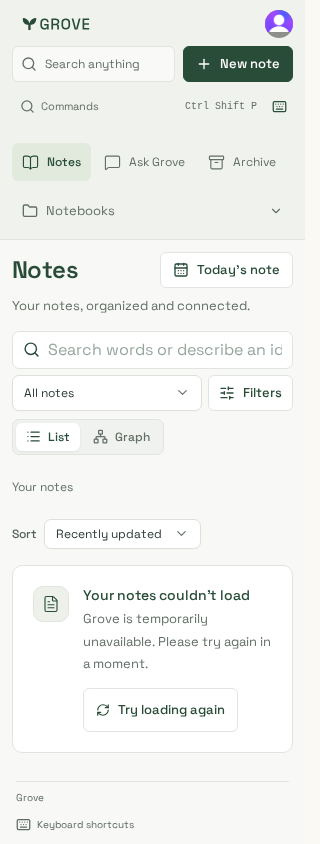
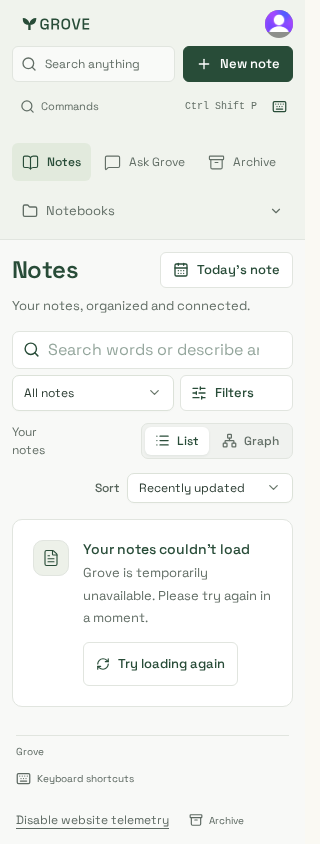
docs: refresh error recovery evidence after workspace integration

diff --git a/documentation/design/screenshots/error-recovery/README.md b/documentation/design/screenshots/error-recovery/README.md
@@ -1,7 +1,9 @@
 # Error-page refinement
 
-Application source: `efc3e9f223254e07e775c4497f49f219d8cbfc31`.
-Production build: `UpJFqxXdLGN3bgNn9nYze`. Captured 22 October 2026 UTC.
+Production capture source: `7144d821d841a888a41c6539527782bafee3ea03`.
+Build: `LTkngUYz6nYcp3UslQsTO`. Captured 22 October 2026 UTC after integrating
+landed stable-library and sharing features. The two isolated global-error captures
+remain from `efc3e9f`; those component/style files are unchanged.
 
 | Surface | Desktop | Mobile |
 | --- | --- | --- |
@@ -18,10 +20,13 @@ host and diagnostics are stubbed in that visual harness.
 
 Verified accessibility at 1440/390/320px, keyboard retry and home navigation,
 200% text at 320px, short-drawer scrolling, and stable pending/failed/retried drawer
-bounds and focus. The full 131-case Chromium suite and 16 focused iPhone/WebKit
-cases pass. Standalone global recovery also passes in Chromium and WebKit.
+bounds and focus. All 149 Chromium cases and 35 supported focused iPhone/WebKit
+cases pass. A Chromium clipboard-permission case cannot start on WebKit because
+that engine does not support the requested grant; its real clipboard check passes
+in Chromium. Standalone global recovery also passes in Chromium and WebKit.
 
 Raw captures and reports are retained in
-`~/.local/state/grove-client-performance/errors-*`. The lazy-check reports were
-created before the UI commit and record its parent HEAD; their build ID matches the
-application source above. Earlier captures remain under `../client-performance/`.
+`~/.local/state/grove-client-performance/errors-combined-*`. Earlier error captures
+use `errors-*`; the first lazy-check reports recorded the pre-commit parent HEAD
+and identify their UI through build `UpJFqxXdLGN3bgNn9nYze`. Earlier workspace
+captures remain under `../client-performance/`.

diff --git a/documentation/delivery.md b/documentation/delivery.md
@@ -8,14 +8,18 @@ and global-error pages use the same visual language and offer a route back to Gr
 Global recovery carries its own styles/fonts and native home links so it remains
 usable outside the root layout. Error details stay out of that fallback's content.
 
-Root/website lint, types and builds, five artifacts, **131 Chromium** and **16
-focused iPhone/WebKit** cases pass. Production deferred retry/bounds/focus and
+After integrating landed stable-library and sharing features, root/website lint,
+types and builds, five artifacts, **149 Chromium** and **35 supported focused
+iPhone/WebKit** cases pass. Release/deployment contracts and workflow lint pass.
+Production deferred retry/bounds/focus and
 sign-in/private-response checks pass at 1440/390/320px. Additional checks cover
 service/404 accessibility, 404 navigation without JavaScript, standalone global
 recovery in both browser engines, keyboard navigation and enlarged text.
-Notes entry is **463,380 gzip bytes (-32.3% original baseline)**, only 200 bytes
-above the previous integrated build. [Reviewed error screenshots](design/screenshots/error-recovery/README.md)
-record the final desktop/mobile presentation and exact source/build.
+Notes entry is **469,016 gzip bytes (-31.5% original baseline)** with all landed
+features included. The error-UI-only increase was 200 bytes before those integrations.
+Preference drafts retain their loaded base across background refreshes and newer
+edits across pending saves. [Reviewed error screenshots](design/screenshots/error-recovery/README.md)
+record the final desktop/mobile presentation, exact source/build and browser coverage.
 
 ## Client caching and loading performance (21 October 2026 UTC)
 

diff --git a/scripts/performance/README.md b/scripts/performance/README.md
@@ -201,3 +201,24 @@ pass. Production drawer bounds/focus/retry and auth checks pass at 1440/390/320p
 extra visual checks cover 200% text, no-JavaScript 404 navigation and standalone
 global recovery in Chromium/WebKit. [Eight screenshots](../../documentation/design/screenshots/error-recovery/README.md)
 document the exact capture setup. Local reports/captures use `errors-*`.
+
+### Landed library and sharing integration
+
+The follow-up integrates stable interactions #63 and public sharing #59 at
+application source `7144d821d841a888a41c6539527782bafee3ea03`, production build
+`LTkngUYz6nYcp3UslQsTO`. Notes entry is **469,016 gzip bytes (-31.5%)**; notebook
+entry is **472,009 (-32.1%)**. Both remain within the entry budget, with the editor
+deferred. These sizes include the added sharing controls and stable library layout;
+the earlier error-UI-only increase remains 200 bytes at `efc3e9f`.
+
+Selection/filter/search geometry composes with cache-owned refresh and retry focus.
+Preferences retain their loaded base through background refreshes and their exact
+submitted snapshot through pending saves. Public readers and fresh owner sharing
+state remain outside the workspace cache. Reports/captures use `errors-combined-*`.
+
+Final verification: **149 Chromium / 35 supported focused iPhone/WebKit** cases,
+root/website lint/types/builds, five artifacts, 17 release/deployment contracts and
+workflow lint pass. One Chromium clipboard-permission case cannot start on WebKit;
+its real clipboard check passes in Chromium. Production auth/chunk/bounds/focus
+checks pass at 1440/390/320px. Updated captures pass accessibility, no-JavaScript
+404 navigation, enlarged text and in-place recovery checks.
